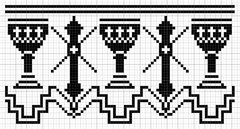
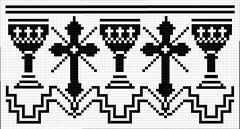
update missing wings on cross of one pattern

diff --git a/altarisdukamunstur.php b/altarisdukamunstur.php
@@ -113,7 +113,7 @@
                 
                 <div class="small_box box3">
                     <div class="portfolio_item_noside">
-                    <a href="images/altarisdukar/munstur/dukur1.jpg"><img src="images/altarisdukar/munstur/dukur1_tn.jpg" alt="" /></a>
+                    <a href="images/altarisdukar/munstur/dukur1.png"><img src="images/altarisdukar/munstur/dukur1_tn.jpg" alt="" /></a>
                     </div>
                     <p>Hægri-smelltu á myndina og veldu <i><b>Save link as...</b></i> til þess að vista munstrið á tölvuna þína.</p>
                 </div><!--end small_box-->
